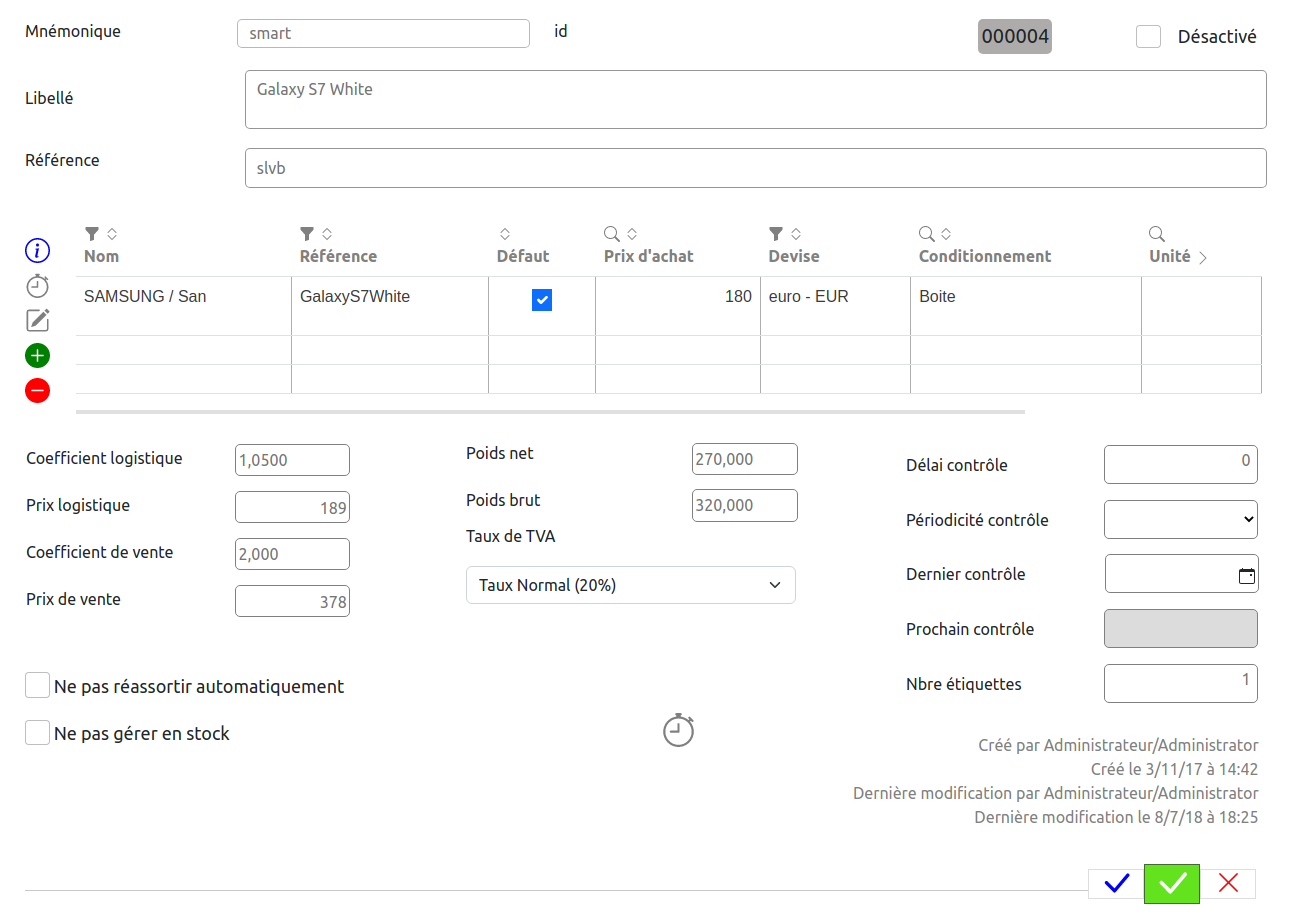
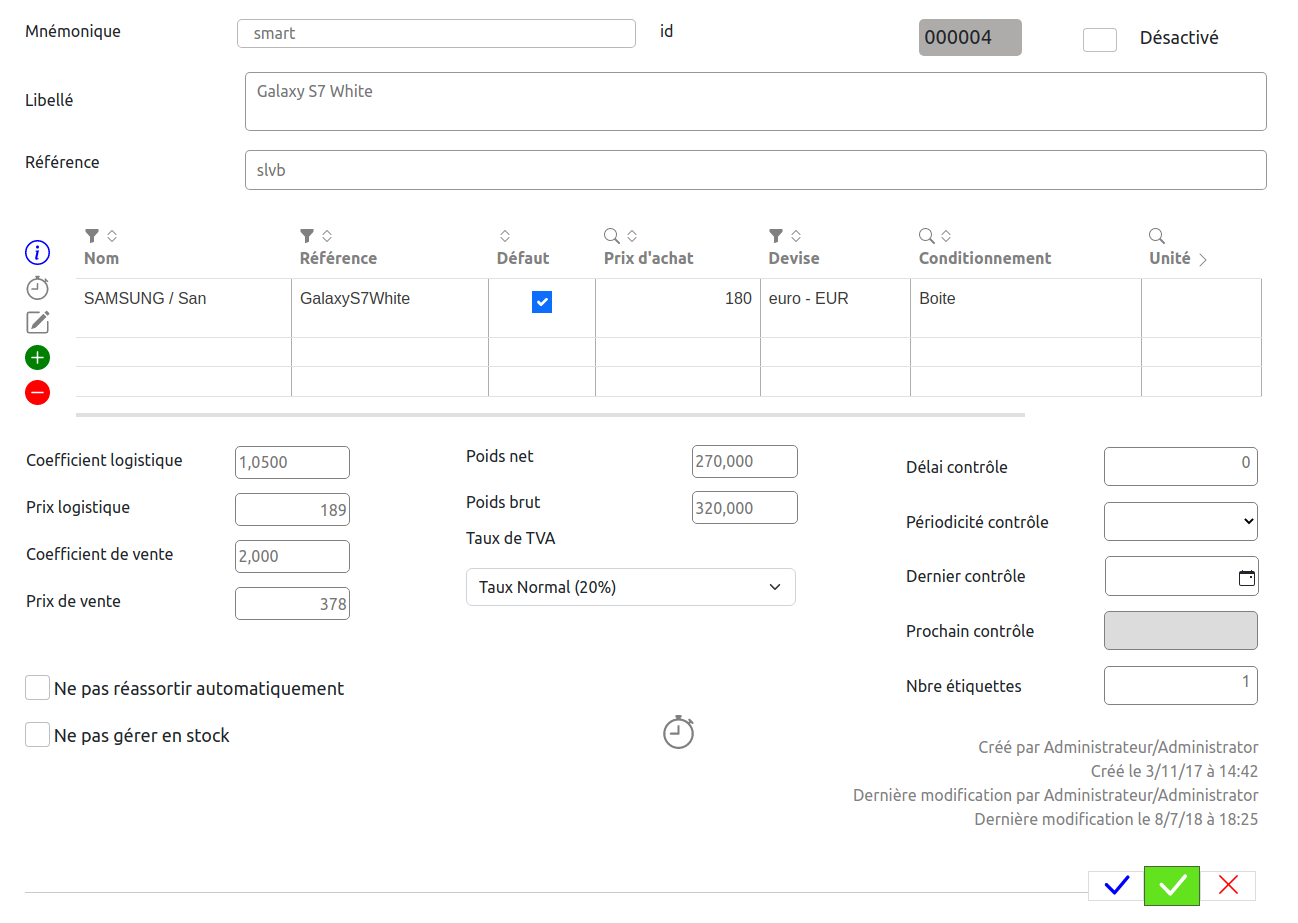
adjust the smart's input

diff --git a/index.html b/index.html
@@ -24,10 +24,10 @@
                 <div class="col-2">
                     <p class="mnemonique">Mnémonique</p>
                 </div>
-                <div class="col-3 smart">
+                <div class="col-4 smart">
                     <input type="text" name="smart" id="smart" placeholder="smart">
                 </div>
-                <div class="col-4">
+                <div class="col-2">
                     <p class="id">id</p>
                 </div>
                 <div class="col">

diff --git a/style.css b/style.css
@@ -25,6 +25,7 @@ body {
     background-color: rgba(74, 68, 63, 0.442);
     font-size: 20px;
     width: 55%;
+    margin-left: 25%;
     padding: 2% 3% 2% 3%;
     border-radius: 5px;
 }
